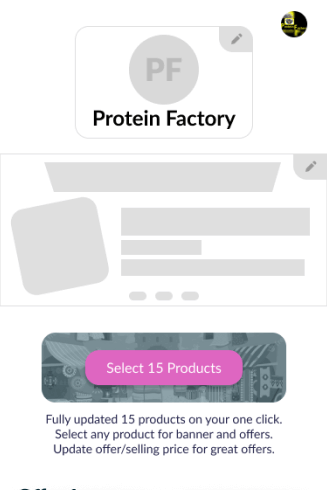
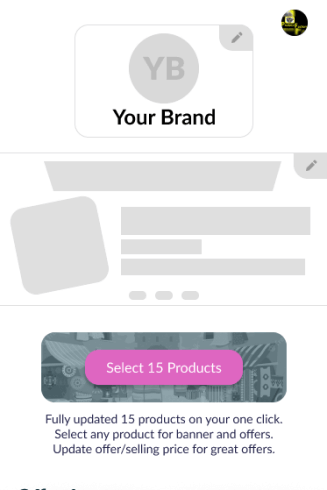
demo image refactor and update.

diff --git a/src/components/Feature/bechke/index.jsx b/src/components/Feature/bechke/index.jsx
@@ -8,7 +8,7 @@ import s from "./style.module.scss";
 
 const demoImages = [
   {
-    label: "Your Home Page",
+    label: "Home Page",
     imgPath: "/images/demo/home.png",
   },
   {
@@ -16,8 +16,28 @@ const demoImages = [
     imgPath: "/images/demo/product.png",
   },
   {
-    label: "Your Account",
+    label: "Account",
     imgPath: "/images/demo/account.png",
+  },
+  {
+    label: "Update Logo",
+    imgPath: "/images/demo/update-logo.png",
+  },
+  {
+    label: "Add Product",
+    imgPath: "/images/demo/add-product.png",
+  },
+  {
+    label: "Update Product",
+    imgPath: "/images/demo/update-product.png",
+  },
+  {
+    label: "Add Banner",
+    imgPath: "/images/demo/add-banner.png",
+  },
+  {
+    label: "Update Banner",
+    imgPath: "/images/demo/update-banner.png",
   },
 ];
 
